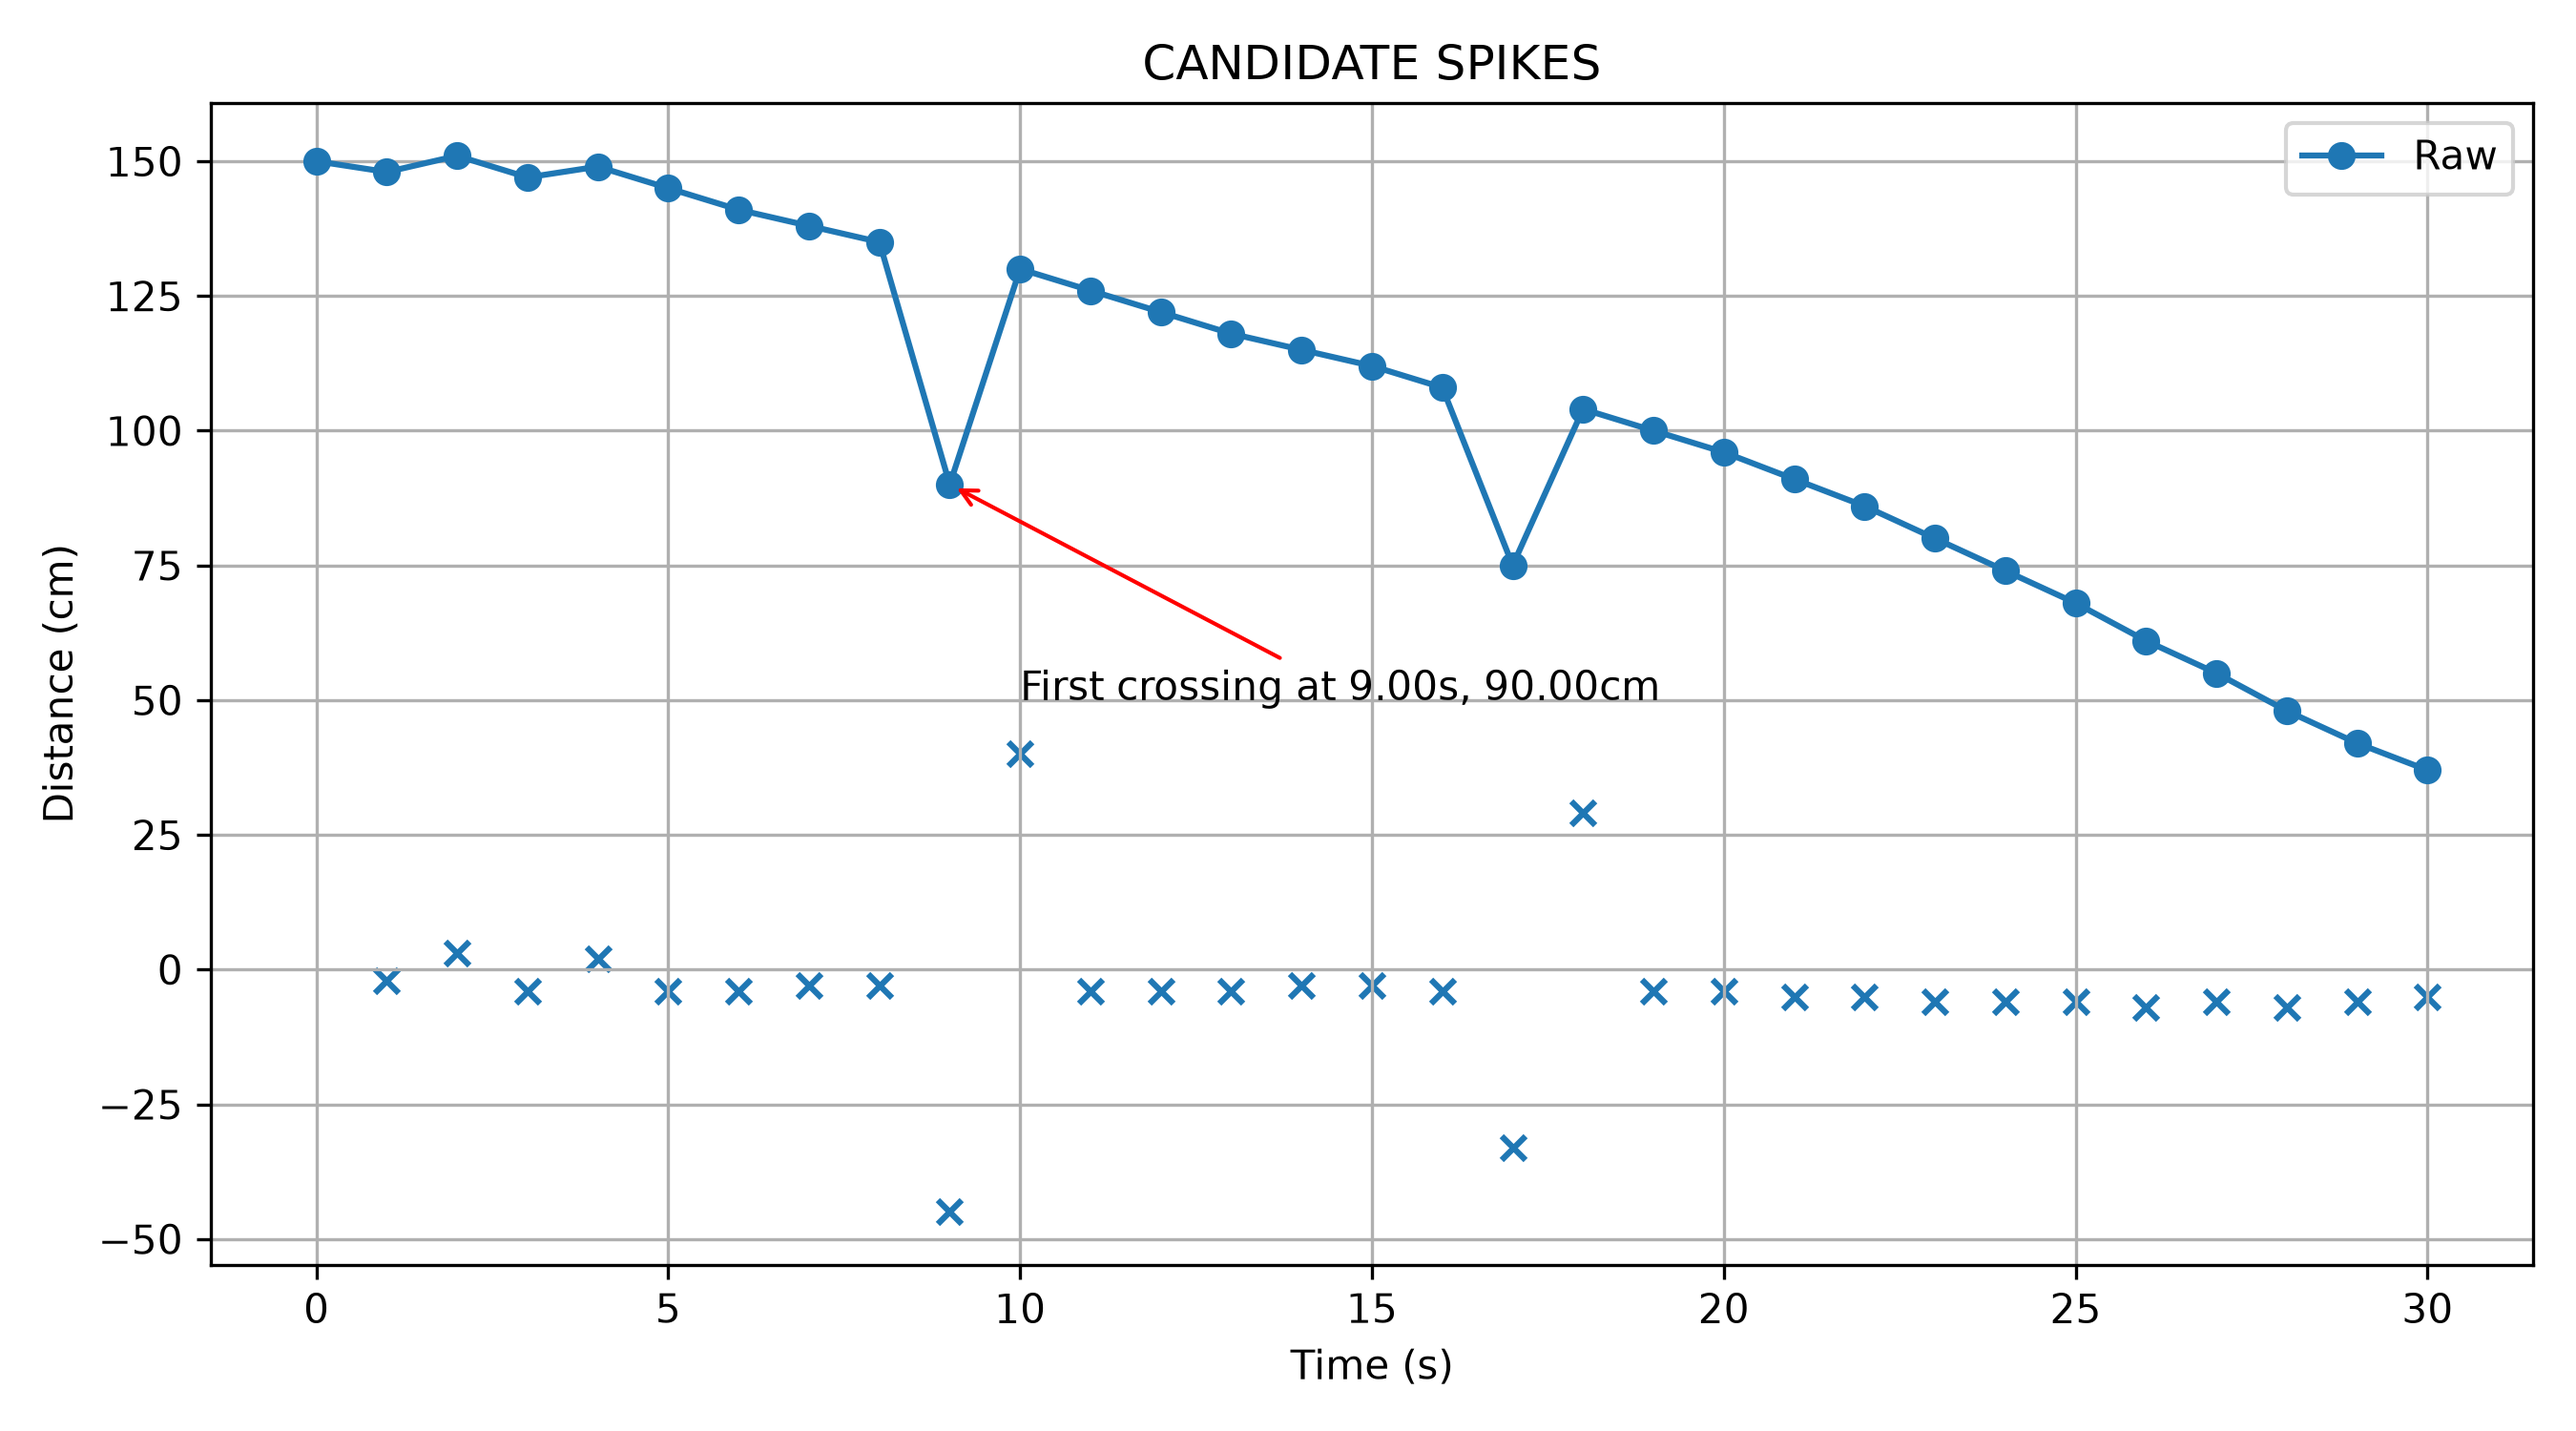
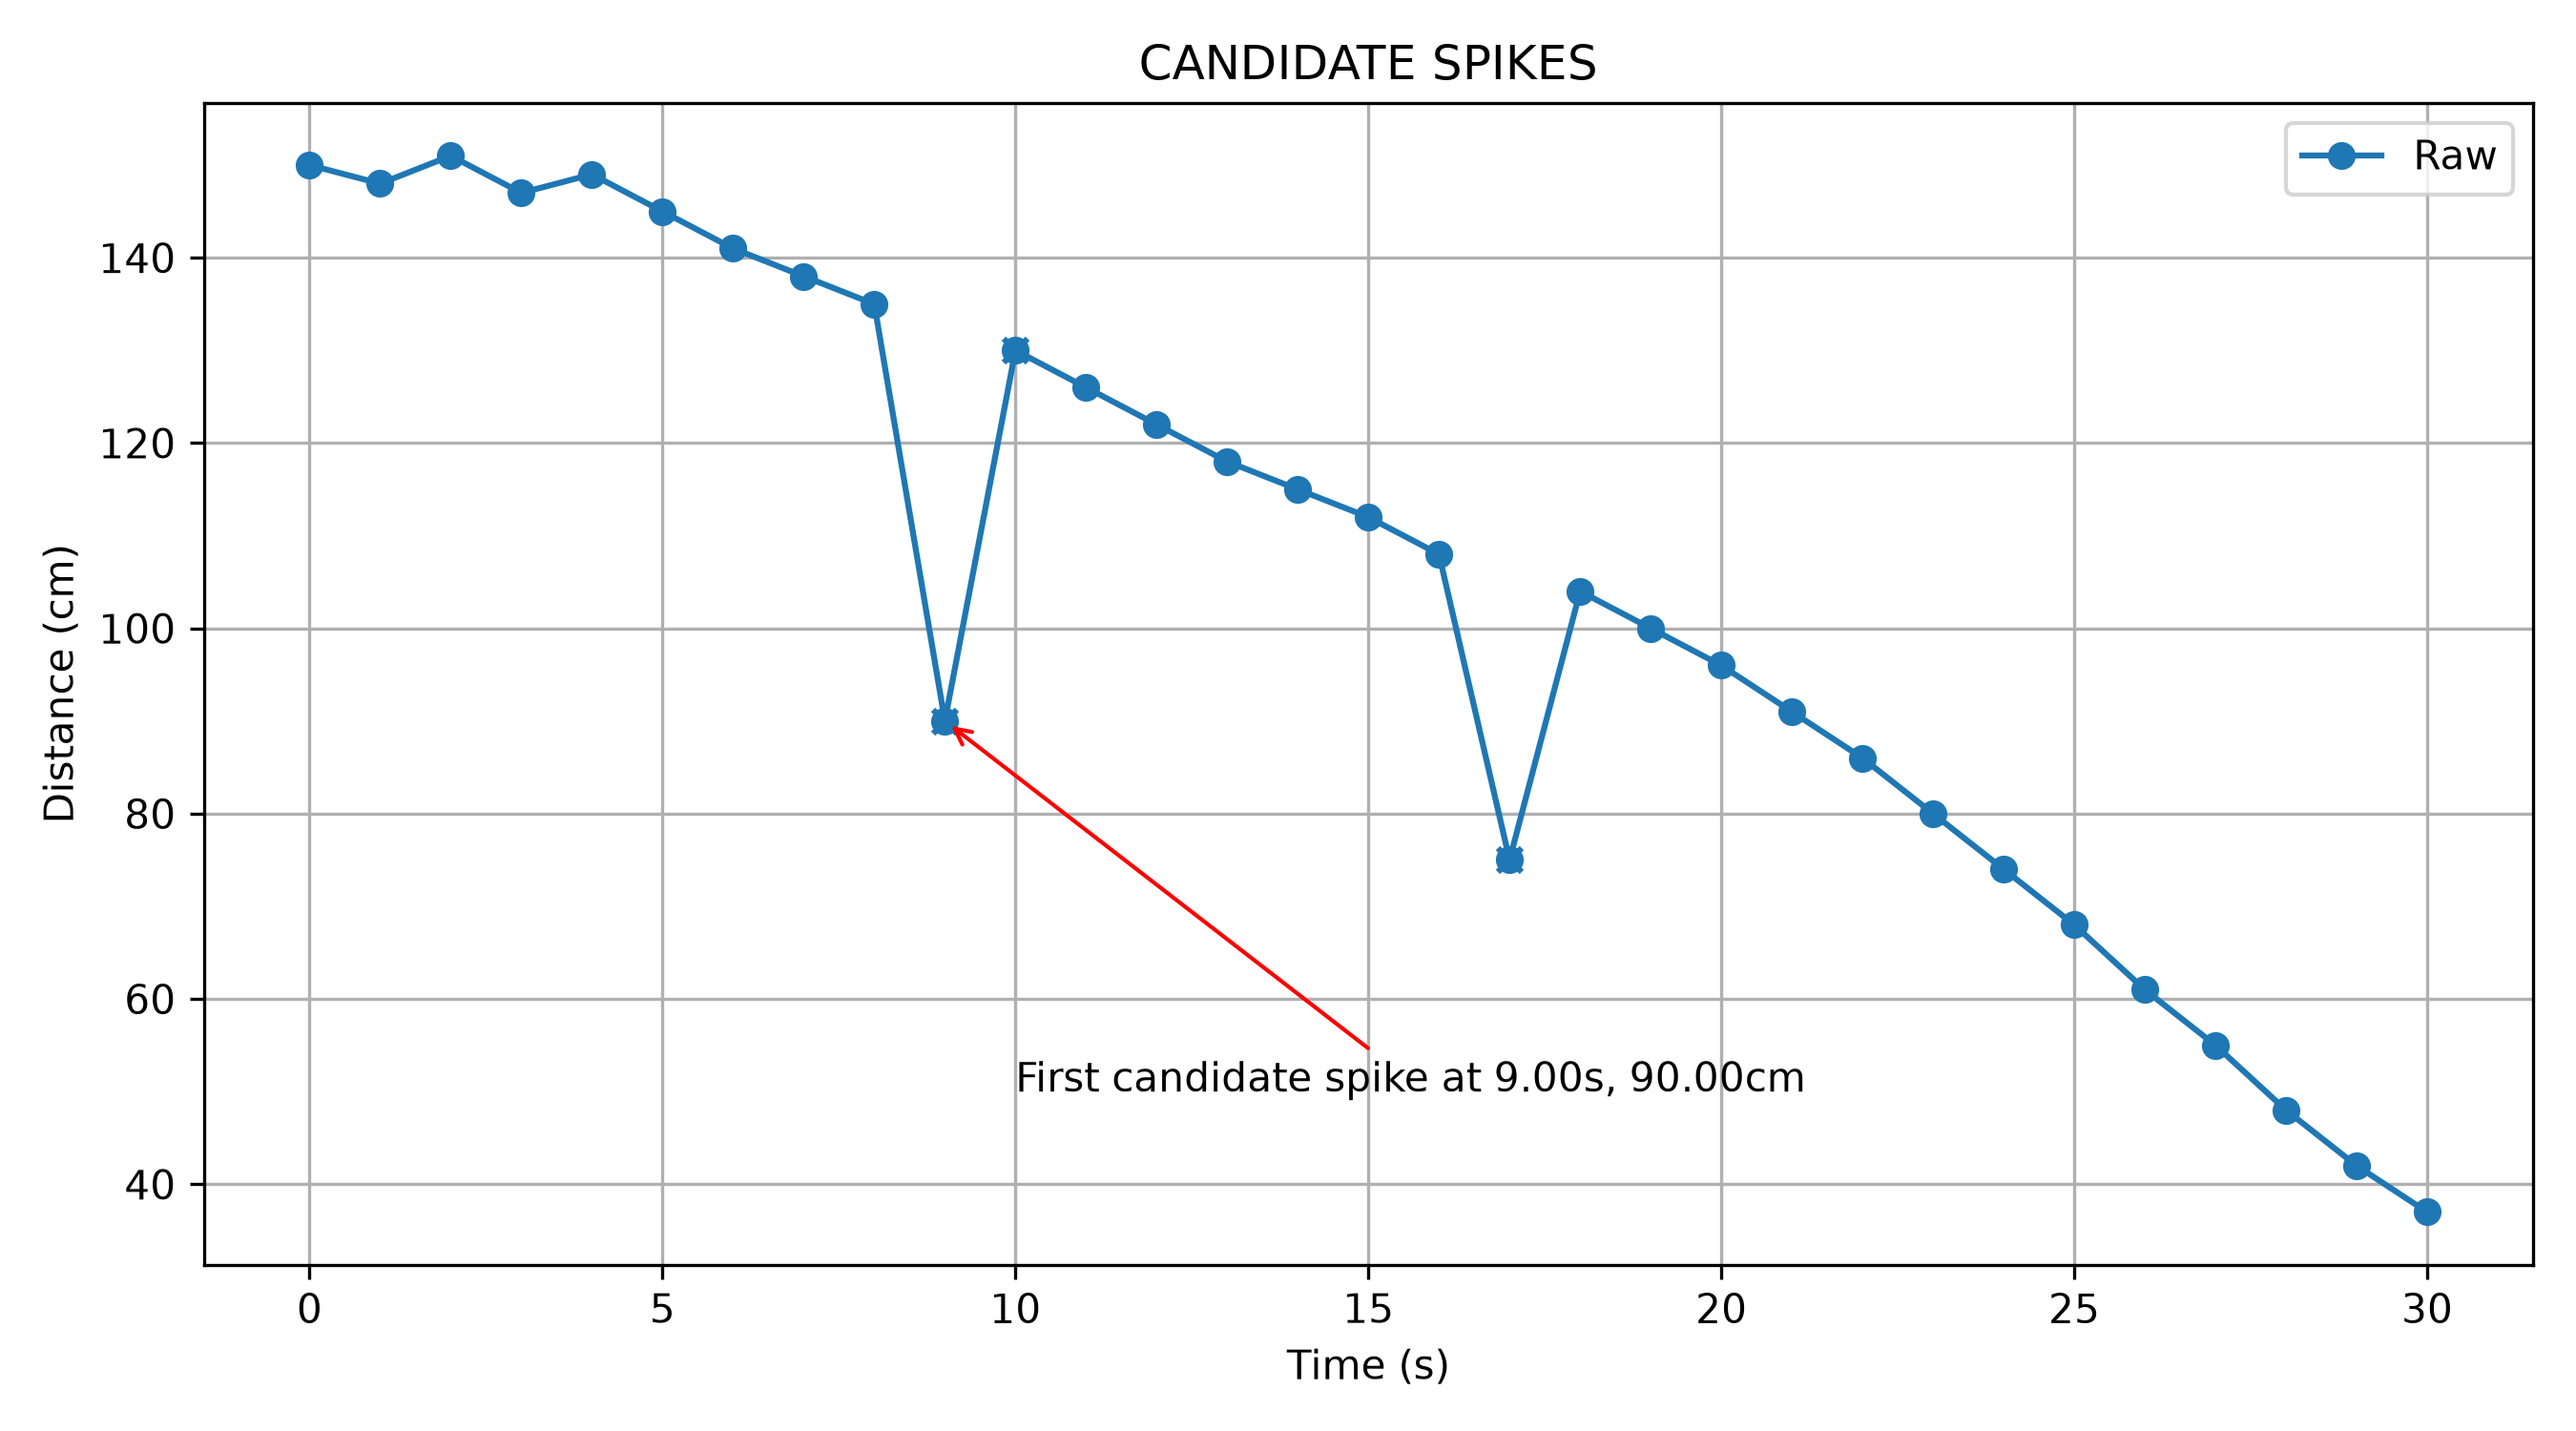
Complete robot time-series signal analysis module

diff --git a/python-data-analysis/exercises/module05/challenge_signal_analyzer.py b/python-data-analysis/exercises/module05/challenge_signal_analyzer.py
@@ -21,10 +21,12 @@ print("Minimum distance   :", df["distance"].min())
 print("Maximum distance   :", df["distance"].max())
 print("Standard deviation :", df["distance"].std())
 
+ROLLING_WINDOW = 5
+
 df["distance_smooth"] = (
     df["distance"]
     .rolling(
-        window=5,
+        window=ROLLING_WINDOW,
         min_periods=1
     )
     .mean()
@@ -41,24 +43,30 @@ df["distance_rate"] = (
 
 max_positive_rate = df["distance_rate"].max()
 idx_max_positive_rate = df["distance_rate"].idxmax()
+timestamp_positive_rate = df.loc[idx_max_positive_rate, "timestamp"]
 max_negative_rate = df["distance_rate"].min()
-idx_max_negative_raet = df["distance_rate"].idxmin()
+idx_max_negative_rate = df["distance_rate"].idxmin()
+timestamp_negative_rate = df.loc[idx_max_negative_rate, "timestamp"]
 
 print("")
-print("Largest decrease :", max_positive_rate, "cm/s at :", idx_max_positive_rate, "s")
-print("Largest increase :", max_negative_rate, "cm/s at :", idx_max_negative_raet, "s")
+print("Largest increase :", max_positive_rate, "cm/s at :", timestamp_positive_rate, "s")
+print("Largest decrease :", max_negative_rate, "cm/s at :", timestamp_negative_rate, "s")
 
-spike_threshold = 30
+SPIKE_THRESHOLD = 30
 
 df["distance_change"] = df["distance"].diff()
 df["abs_change"] = df["distance_change"].abs()
 
-candidate_spike = (df["abs_change"] > spike_threshold).sum()
+
+df["candidate_spike"] = (
+    df["abs_change"] > SPIKE_THRESHOLD
+)
+candidate_spike_count = df["candidate_spike"].sum()
 
 print("")
 print(df[["distance_change", "abs_change"]])
 print("")
-print("Candidate spike changes :", candidate_spike)
+print("Candidate spike changes :", candidate_spike_count)
 
 df["distance_normalized"] = (
     (df["distance"] - df["distance"].min()) / (df["distance"].max()-df["distance"].min())
@@ -107,14 +115,18 @@ ax2.axhline(
 )
 
 ax2.set_xlabel("Time (s)")
-ax2.set_ylabel("Distance Rate")
+ax2.set_ylabel("Distance Rate (cm/s)")
 ax2.grid(True)
 ax2.set_title("RATE OF CHANGE")
 fig2.tight_layout()
 
-# y=0 is useful for knowing how far the spike deviates
+# y=0 is a reference for rate:
+# rate > 0 measured distance increasing
+# rate = 0 no change between consecutive measurements
+# rate < 0 measured distance decreasing
 
 fig3, ax3 = plt.subplots(figsize=(9, 5))
+spikes = df[df["candidate_spike"]]
 
 ax3.plot(
     df["timestamp"],
@@ -123,17 +135,17 @@ ax3.plot(
     label="Raw"
 )
 ax3.scatter(
-    df["timestamp"],
-    df["distance_change"],
+    spikes["timestamp"],
+    spikes["distance"],
     marker="x",
 )
 
-first_point = df[df["abs_change"] > spike_threshold].iloc[0]
+first_point = spikes.iloc[0]
 x_f2 = first_point["timestamp"]
 y_f2 = first_point["distance"]
 
 ax3.annotate(
-    f"First crossing at {x_f2:.2f}s, {y_f2:.2f}cm",
+    f"First candidate spike at {x_f2:.2f}s, {y_f2:.2f}cm",
     xy=(x_f2, y_f2),
     xytext=(x_f2 + 1, y_f2 - 40),
     arrowprops=dict(arrowstyle='->', color='red'),
@@ -147,10 +159,12 @@ ax3.legend()
 ax3.set_title("CANDIDATE SPIKES")
 fig3.tight_layout()
 
+ROLLING_STD_WINDOW = 5
+
 df["rolling_std"] = (
     df["distance"]
     .rolling(
-        window=5,
+        window=ROLLING_STD_WINDOW,
         min_periods=1
     )
     .std()
@@ -173,9 +187,10 @@ fig4.tight_layout()
 
 largest_std = df["rolling_std"].max()
 index_largest_std = df["rolling_std"].idxmax()
+timestamp_idx_largest_std = df.loc[index_largest_std, "timestamp"]
 
 print("Largest rolling standard deviation:", largest_std)
-print("Timestamp of largest rolling standard deviation:", index_largest_std)
+print("Timestamp of largest rolling standard deviation:", timestamp_idx_largest_std)
 
 fig1.savefig(
     "figures/module05/raw_vs_smoothed.png",
@@ -201,21 +216,28 @@ plt.show()
 # =====================================================
 #
 # 1. Raw signal:
-# From the start, the raw signal data was quite different.
+# From the beginning, the raw signal data has some values that looked different.
 #
 # 2. Smoothing:
 # Smoothing with a rolling mean of 5 is able to make the data smooth and reduce spikes.
+# But in general, smoothing can make signal to be less responsive/lag and can covers
+# short events.
 #
 # 3. Rate of change:
-# The rate of change graph shows deviations from normal values.
+# A negative value means the measured distance decreases 
+# ompared to the previous measurement. 
+# Conversely, a positive value means the measured distance 
+# increases compared to the previous measurement.
 #
 # 4. Candidate spikes:
-# Candidate spikes can be identified 
-# by calculating the distance change that exceeds the specified threshold.
+# To practice detecting unusual transition candidates, we can use threshold like
+# abs_change > 30 or other particular number.
 #
 # 5. Rolling variability:
-# Data spikes cause spikes in data calculations.
-# Rolling variability helps the data return to smoothness. 
+# Rolling standard deviation increases around regions containing large changes, 
+# indicating greater local variability.
+# Rolling variability measures local variability.
 #
 # 6. Limitations:
-# Threshold limits can be adjusted or set according to the data.
+# 31 readings + 1 Hz sampling cannot generalize robot behavior or sensor performance.
+# Normalization can only change data scale, and does not eliminate noise nor anomaly.
